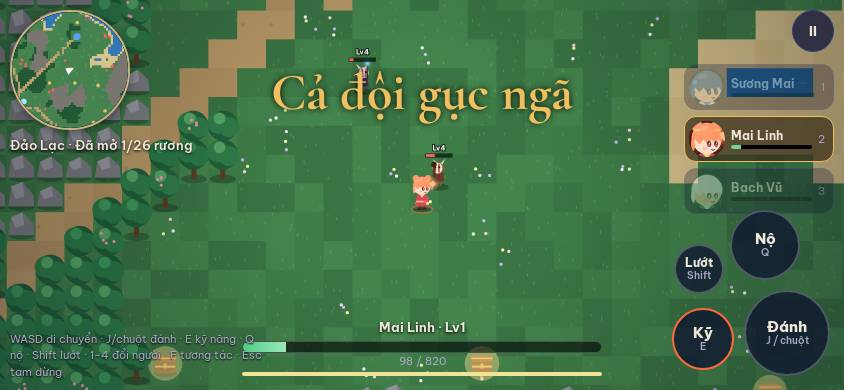
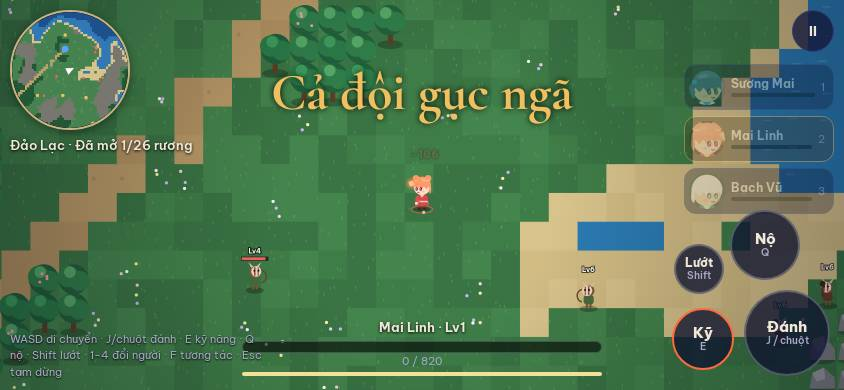
S07: chụp cả đội gục khi người cuối cũng gục

diff --git a/docs/ux/tools/chup-anh.ts b/docs/ux/tools/chup-anh.ts
@@ -206,8 +206,8 @@ async function run(browser: Browser, vp: Vp, data: Record<string, unknown>) {
     `(()=>{const G=__tinhtu.S.G;G.party.forEach((m,i)=>{if(i!==G.act){m.alive=false;m.hp=0}});G.party[G.act].hp=Math.max(1,G.party[G.act].maxHp*0.12);})()`,
   );
   await sleep(300);
-  await shot("mau-thap", "Máu thấp, 3 người đã gục");
-  await ev(`__M.session.partyWipe()`);
+  await shot("mau-thap", "Máu thấp, các thành viên khác đã gục");
+  await ev(`(()=>{const m=__tinhtu.S.G.party[__tinhtu.S.G.act];m.hp=0;m.alive=false;__M.session.partyWipe();})()`);
   await sleep(500);
   await shot("ca-doi-guc", "Cả đội gục ở Đảo Lạc");
   await sleep(2600);
